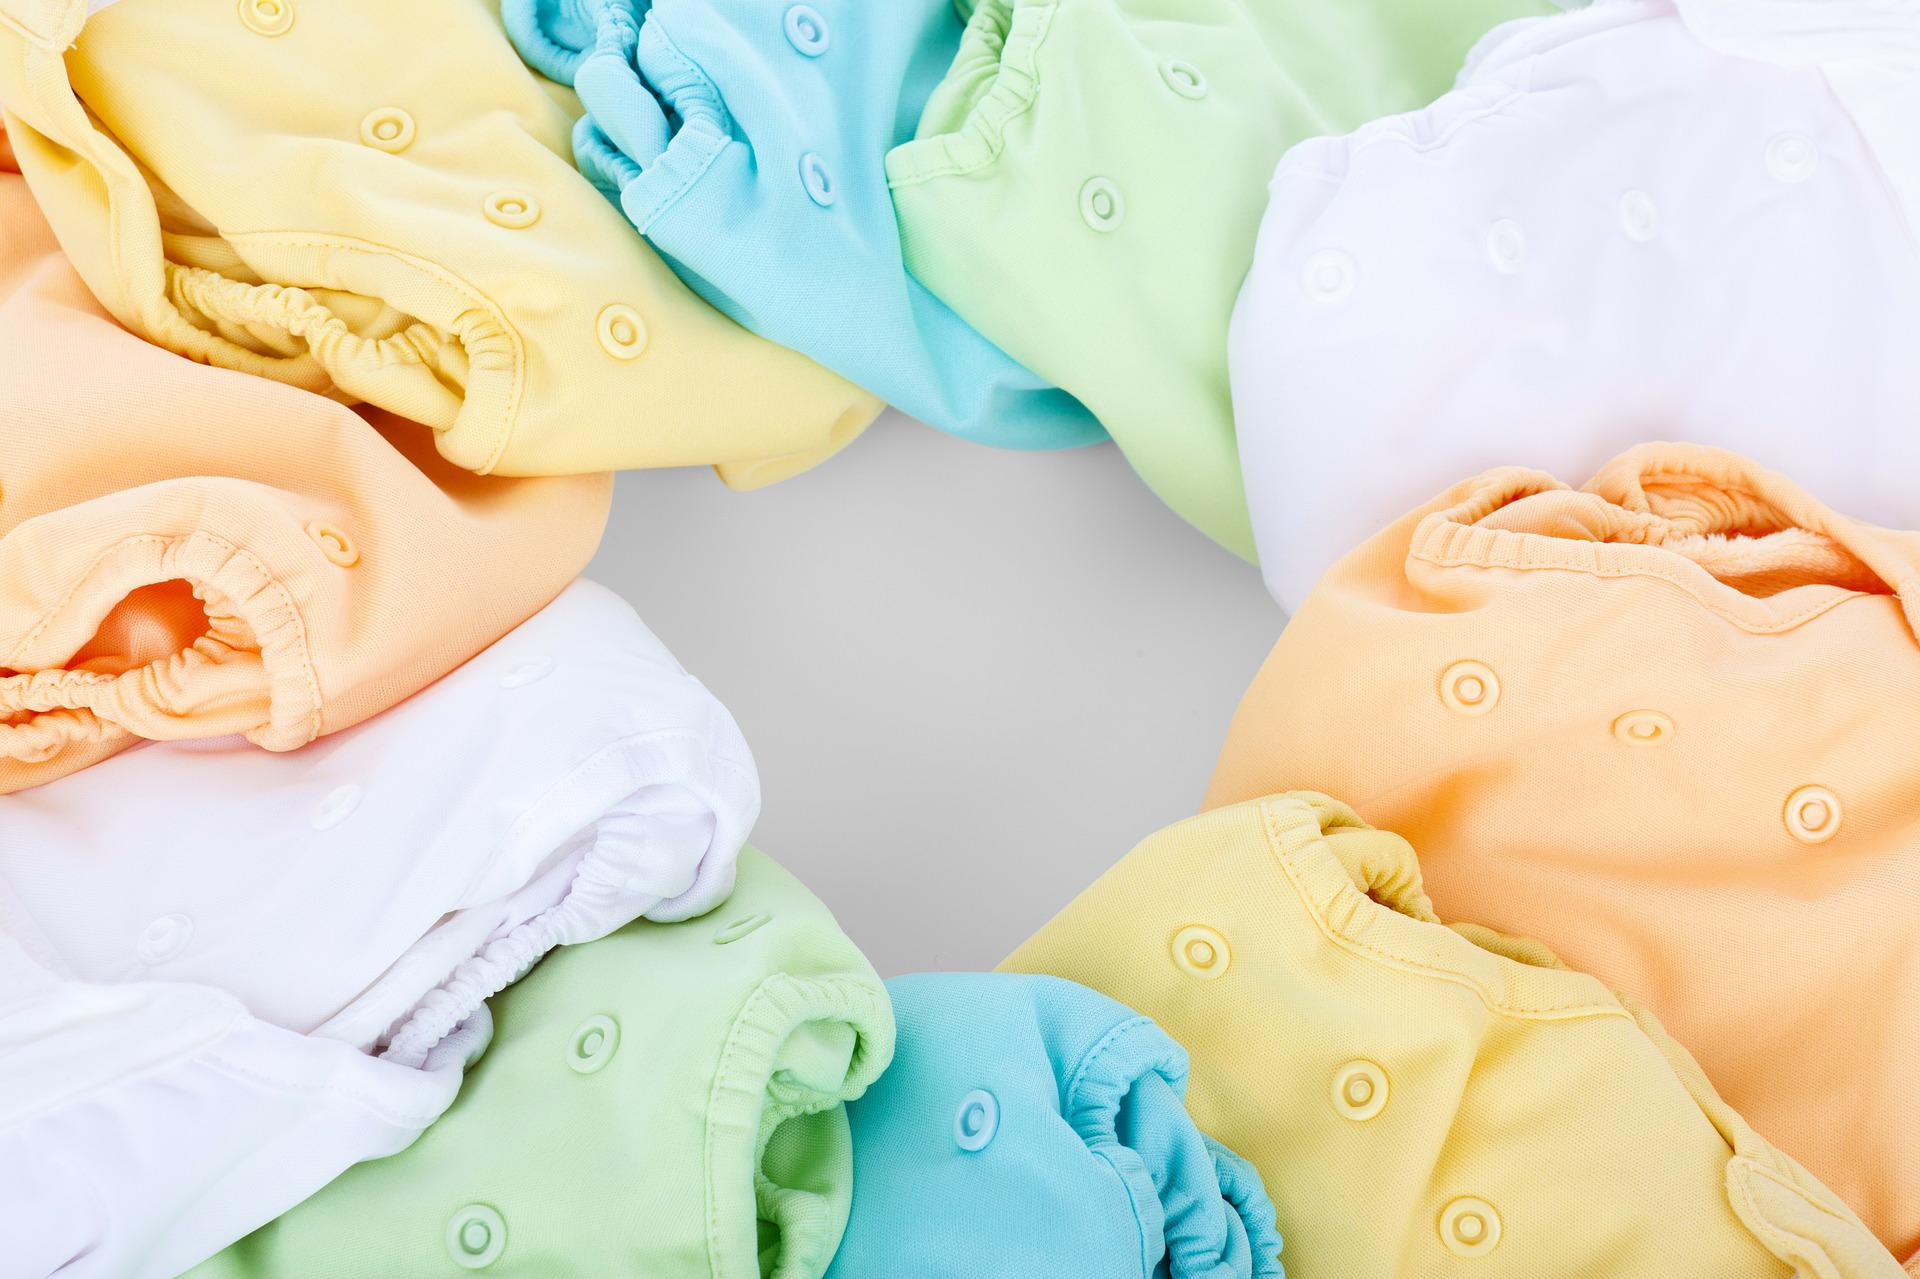
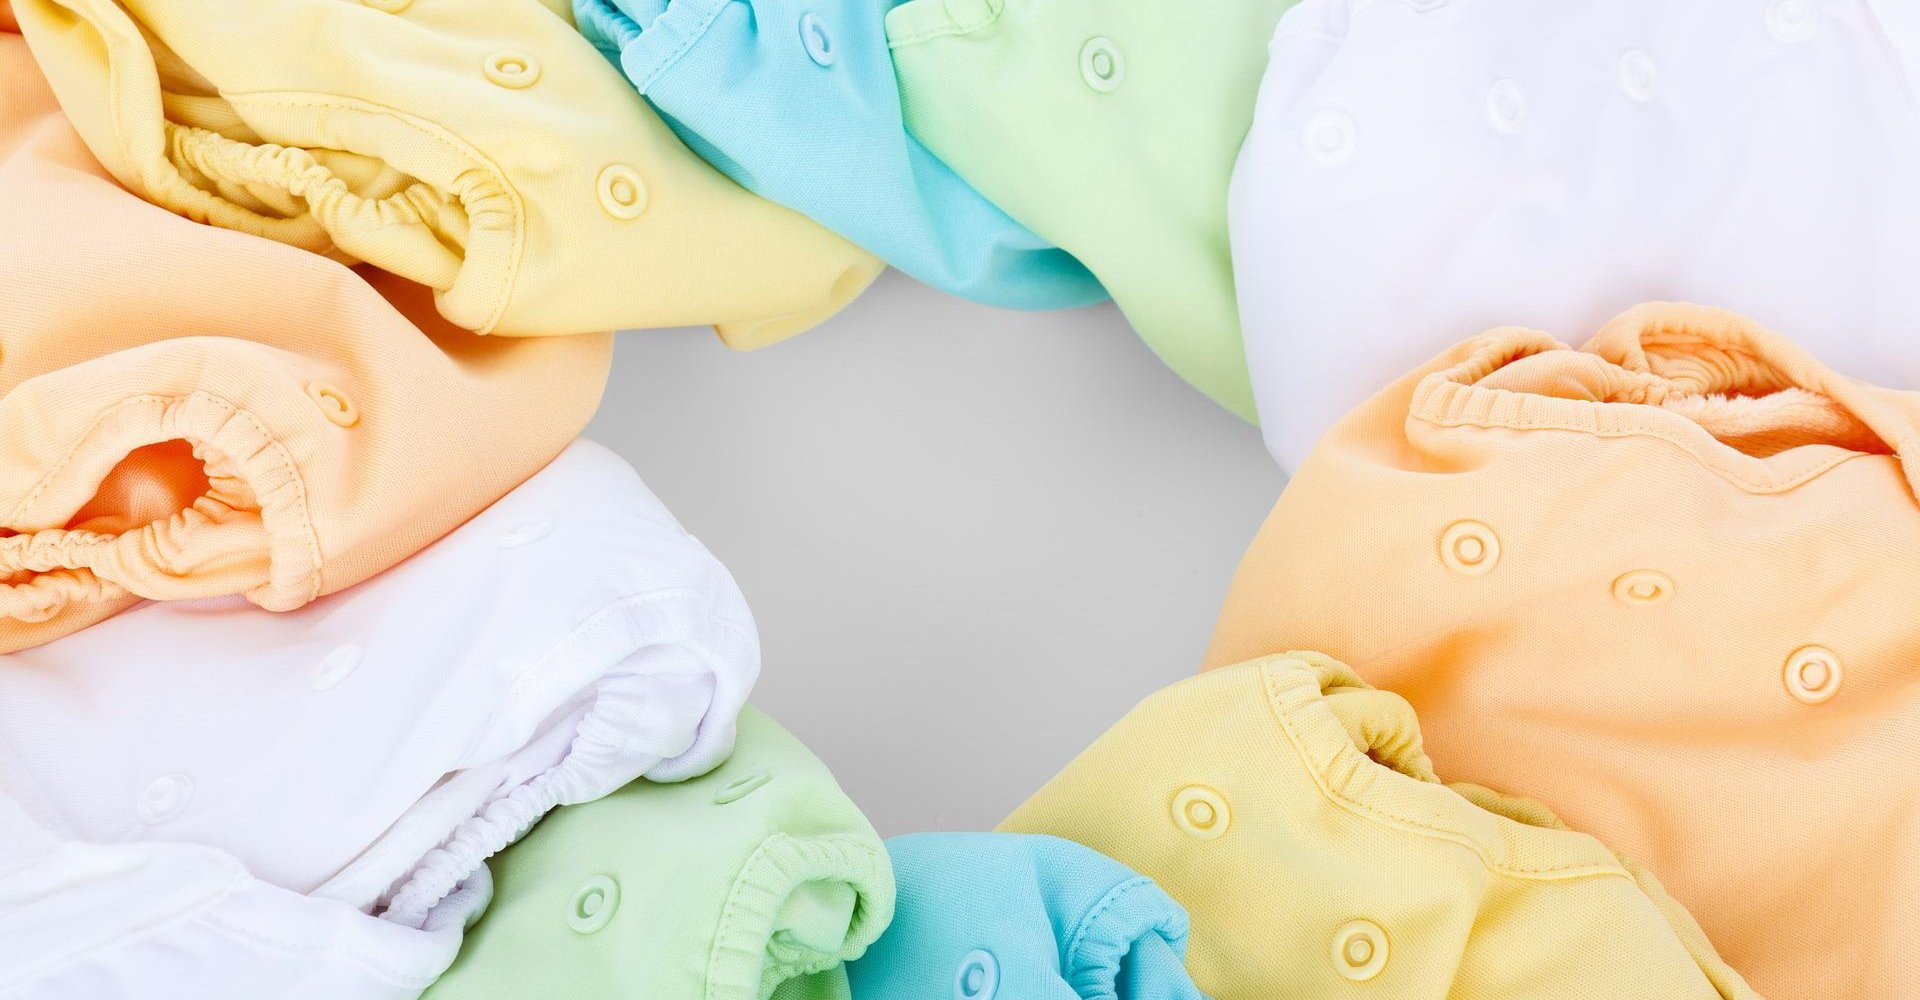
hotfix header and hero responsive

diff --git a/css/styles.css b/css/styles.css
@@ -12,8 +12,8 @@ body {
   padding: 0;
   background-color: #f3f3f3;
   color: #1b191a;
-  width: 100vw;
-  overflow: hidden;
+  width: 100%;
+  overflow-x: hidden;
   font-family: "Fira Sans", sans-serif;
 }
 
@@ -100,9 +100,9 @@ h1 {
 }
 @media screen and (max-width: 650px) {
   .header .content nav {
-    position: absolute;
+    position: fixed;
     top: 0;
-    right: -300px;
+    right: -350px;
     height: 100vh;
     padding: 0 50px;
     transition-duration: 0.5s;
@@ -138,6 +138,7 @@ h1 {
     position: absolute;
     right: 5vh;
     z-index: 2;
+    margin-right: -10px;
   }
   .header .content .btn.menu.active {
     transform: rotateZ(90deg);
@@ -149,9 +150,6 @@ h1 {
   }
 }
 
-.hero {
-  position: relative;
-}
 .hero .content {
   display: flex;
   align-items: center;
@@ -186,16 +184,29 @@ h1 {
 .hero .bg {
   position: absolute;
   top: 0;
-  left: 720px;
+  left: 0;
+  width: 100vw;
+  height: 720px;
   z-index: -1;
-  margin-top: -150px;
+  overflow: hidden;
 }
 .hero .bg img {
-  height: 720px;
+  position: absolute;
+  top: 0;
+  right: calc(-1382px + (100vw - 1300px) / 2 + 450px + 130px);
+  height: 100%;
   width: auto;
   opacity: 0.7;
 }
-@media screen and (max-width: 850px) {
+@media screen and (max-width: 1450px) {
+  .hero .bg img {
+    right: calc(-1382px + 90vw - 850px + 200px);
+  }
+}
+@media screen and (max-width: 950px) {
+  .hero {
+    position: relative;
+  }
   .hero .content .text {
     width: 100%;
   }
@@ -207,6 +218,11 @@ h1 {
     opacity: 0.5;
   }
   .hero .bg {
+    display: none;
+  }
+}
+@media screen and (max-width: 550px) {
+  .hero .content img {
     display: none;
   }
 }

diff --git a/css/_hero.sass b/css/_hero.sass
@@ -1,5 +1,4 @@
 .hero
-    position: relative
 
     .content
         display: flex
@@ -35,16 +34,29 @@
     .bg
         position: absolute
         top: 0
-        left: 720px
+        left: 0
+        width: 100vw
+        height: 720px
         z-index: -1
-        margin-top: -150px
+        overflow: hidden
 
         img
-            height: 720px
+            position: absolute
+            top: 0
+            right: calc(-1382px + (100vw - 1300px)/2 + (1300px - 850px) + 130px)
+            height: 100%
             width: auto
             opacity: 0.7
 
-    @media screen and (max-width: 850px)
+    @media screen and (max-width: 1450px)
+        .bg
+            img
+                right: calc(-1382px + (90vw - 850px) + 200px)
+
+
+    @media screen and (max-width: 950px)
+        position: relative
+
         .content
 
             .text
@@ -57,6 +69,10 @@
                 width: 300px
                 opacity: 0.5
 
-
         .bg
             display: none
+
+    @media screen and (max-width: 550px)
+        .content
+            img
+                display: none

diff --git a/css/_header.sass b/css/_header.sass
@@ -38,9 +38,9 @@
 
         @media screen and (max-width: 650px)
             nav
-                position: absolute
+                position: fixed
                 top: 0
-                right: -300px
+                right: -350px
                 height: 100vh
                 padding: 0 50px
                 transition-duration: $transition-duration
@@ -78,6 +78,7 @@
                 position: absolute
                 right: 5vh
                 z-index: 2
+                margin-right: -10px
 
                 &.active
                     transform: rotateZ(90deg)

diff --git a/css/_base.sass b/css/_base.sass
@@ -19,8 +19,8 @@ body
     padding: 0
     background-color: $color_a
     color: $color_b
-    width: 100vw
-    overflow: hidden
+    width: 100%
+    overflow-x: hidden
     font-family: 'Fira Sans', sans-serif
 
 .wrapper-img
